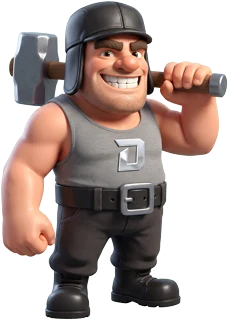
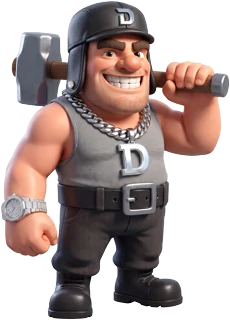
Gate: 20 s repair scene with dripped-out builders (chain, watch, D cap); clock segments actually get fixed; cleaner note

diff --git a/index.html b/index.html
@@ -51,7 +51,7 @@
                 <linearGradient id="g-buckle" x1="0" y1="0" x2="1" y2="1"><stop offset="0" stop-color="#ffffff"/><stop offset="1" stop-color="#9da1a8"/></linearGradient>
                 <linearGradient id="g-mallet" x1="0" y1="0" x2="1" y2="1"><stop offset="0" stop-color="#d7d9de"/><stop offset="1" stop-color="#7d8086"/></linearGradient>
               </defs>
-              <g class="repair__clock"><rect class="seg" x="43" y="8" width="14" height="3"/><rect class="seg" x="57" y="11" width="3" height="15"/><rect class="seg" x="57" y="30" width="3" height="15"/><rect class="seg" x="43" y="45" width="14" height="3"/><rect class="seg" x="40" y="30" width="3" height="15"/><rect class="seg" x="40" y="11" width="3" height="15"/><rect class="seg on" x="43" y="26.5" width="14" height="3"/><rect class="seg" x="67" y="8" width="14" height="3"/><rect class="seg" x="81" y="30" width="3" height="15"/><rect class="seg" x="67" y="45" width="14" height="3"/><rect class="seg" x="64" y="30" width="3" height="15"/><rect class="seg" x="64" y="11" width="3" height="15"/><rect class="seg on" x="67" y="26.5" width="14" height="3"/><rect class="seg" x="101" y="8" width="14" height="3"/><rect class="seg" x="115" y="11" width="3" height="15"/><rect class="seg" x="101" y="45" width="14" height="3"/><rect class="seg" x="98" y="30" width="3" height="15"/><rect class="seg" x="98" y="11" width="3" height="15"/><rect class="seg" x="125" y="8" width="14" height="3"/><rect class="seg" x="139" y="11" width="3" height="15"/><rect class="seg" x="139" y="30" width="3" height="15"/><rect class="seg" x="125" y="45" width="14" height="3"/><rect class="seg" x="122" y="30" width="3" height="15"/><rect class="seg" x="122" y="11" width="3" height="15"/><rect class="seg on" x="125" y="26.5" width="14" height="3"/><rect class="seg" x="159" y="8" width="14" height="3"/><rect class="seg" x="173" y="11" width="3" height="15"/><rect class="seg" x="173" y="30" width="3" height="15"/><rect class="seg" x="159" y="45" width="14" height="3"/><rect class="seg" x="197" y="11" width="3" height="15"/><rect class="seg" x="197" y="30" width="3" height="15"/><rect class="seg" x="183" y="45" width="14" height="3"/><rect class="seg" x="180" y="30" width="3" height="15"/><rect class="seg" x="180" y="11" width="3" height="15"/><rect class="seg on" x="183" y="26.5" width="14" height="3"/><rect class="seg" x="217" y="8" width="14" height="3"/><rect class="seg" x="231" y="11" width="3" height="15"/><rect class="seg" x="231" y="30" width="3" height="15"/><rect class="seg" x="217" y="45" width="14" height="3"/><rect class="seg" x="214" y="30" width="3" height="15"/><rect class="seg" x="214" y="11" width="3" height="15"/><rect class="seg" x="241" y="8" width="14" height="3"/><rect class="seg" x="255" y="11" width="3" height="15"/><rect class="seg" x="238" y="30" width="3" height="15"/><rect class="seg" x="238" y="11" width="3" height="15"/><rect class="seg on" x="241" y="26.5" width="14" height="3"/><rect class="seg on" x="89" y="20" width="3" height="3"/><rect class="seg on" x="89" y="33" width="3" height="3"/><rect class="seg on" x="147" y="20" width="3" height="3"/><rect class="seg on" x="147" y="33" width="3" height="3"/></g>
+              <g class="repair__clock"><rect class="seg fix fix1" x="101" y="26.5" width="14" height="3"/><rect class="seg fix fix2" x="217" y="26.5" width="14" height="3"/><rect class="seg" x="43" y="8" width="14" height="3"/><rect class="seg" x="57" y="11" width="3" height="15"/><rect class="seg" x="57" y="30" width="3" height="15"/><rect class="seg" x="43" y="45" width="14" height="3"/><rect class="seg" x="40" y="30" width="3" height="15"/><rect class="seg" x="40" y="11" width="3" height="15"/><rect class="seg on" x="43" y="26.5" width="14" height="3"/><rect class="seg" x="67" y="8" width="14" height="3"/><rect class="seg" x="81" y="30" width="3" height="15"/><rect class="seg" x="67" y="45" width="14" height="3"/><rect class="seg" x="64" y="30" width="3" height="15"/><rect class="seg" x="64" y="11" width="3" height="15"/><rect class="seg on" x="67" y="26.5" width="14" height="3"/><rect class="seg" x="101" y="8" width="14" height="3"/><rect class="seg" x="115" y="11" width="3" height="15"/><rect class="seg" x="101" y="45" width="14" height="3"/><rect class="seg" x="98" y="30" width="3" height="15"/><rect class="seg" x="98" y="11" width="3" height="15"/><rect class="seg" x="125" y="8" width="14" height="3"/><rect class="seg" x="139" y="11" width="3" height="15"/><rect class="seg" x="139" y="30" width="3" height="15"/><rect class="seg" x="125" y="45" width="14" height="3"/><rect class="seg" x="122" y="30" width="3" height="15"/><rect class="seg" x="122" y="11" width="3" height="15"/><rect class="seg on" x="125" y="26.5" width="14" height="3"/><rect class="seg" x="159" y="8" width="14" height="3"/><rect class="seg" x="173" y="11" width="3" height="15"/><rect class="seg" x="173" y="30" width="3" height="15"/><rect class="seg" x="159" y="45" width="14" height="3"/><rect class="seg" x="197" y="11" width="3" height="15"/><rect class="seg" x="197" y="30" width="3" height="15"/><rect class="seg" x="183" y="45" width="14" height="3"/><rect class="seg" x="180" y="30" width="3" height="15"/><rect class="seg" x="180" y="11" width="3" height="15"/><rect class="seg on" x="183" y="26.5" width="14" height="3"/><rect class="seg" x="217" y="8" width="14" height="3"/><rect class="seg" x="231" y="11" width="3" height="15"/><rect class="seg" x="231" y="30" width="3" height="15"/><rect class="seg" x="217" y="45" width="14" height="3"/><rect class="seg" x="214" y="30" width="3" height="15"/><rect class="seg" x="214" y="11" width="3" height="15"/><rect class="seg" x="241" y="8" width="14" height="3"/><rect class="seg" x="255" y="11" width="3" height="15"/><rect class="seg" x="238" y="30" width="3" height="15"/><rect class="seg" x="238" y="11" width="3" height="15"/><rect class="seg on" x="241" y="26.5" width="14" height="3"/><rect class="seg on" x="89" y="20" width="3" height="3"/><rect class="seg on" x="89" y="33" width="3" height="3"/><rect class="seg on" x="147" y="20" width="3" height="3"/><rect class="seg on" x="147" y="33" width="3" height="3"/></g>
               <g class="repair__pile"><rect class="seg on" x="150" y="104" width="14" height="3" transform="rotate(-12 150 104)"/><rect class="seg loose" x="165" y="107" width="3" height="15" transform="rotate(70 165 107)"/><rect class="seg loose" x="176" y="102" width="14" height="3" transform="rotate(25 176 102)"/><rect class="seg on" x="190" y="106" width="14" height="3" transform="rotate(-5 190 106)"/><rect class="seg loose" x="200" y="99" width="3" height="15" transform="rotate(-60 200 99)"/><rect class="seg loose" x="212" y="105" width="14" height="3" transform="rotate(40 212 105)"/><rect class="seg on" x="224" y="108" width="3" height="15" transform="rotate(95 224 108)"/><rect class="seg loose" x="158" y="98" width="14" height="3" transform="rotate(8 158 98)"/><rect class="seg loose" x="183" y="96" width="3" height="3" transform="rotate(0 183 96)"/><rect class="seg on" x="236" y="104" width="14" height="3" transform="rotate(-30 236 104)"/><rect class="seg loose" x="205" y="110" width="3" height="3" transform="rotate(0 205 110)"/><rect class="seg on repair__hop" x="186" y="98" width="14" height="3"/></g>
               
               </g></g>
@@ -60,14 +60,18 @@
               <g class="zzz"><text x="246" y="34">z</text><text x="256" y="24">z</text><text x="268" y="12">Z</text></g>
               <g class="say say--a" transform="translate(30 14)"><rect width="70" height="20" rx="6"/><path d="M56 18 L70 30 L64 18 Z"/><text x="35" y="14">#@$%!</text></g>
               <g class="say say--b" transform="translate(272 26)"><rect width="34" height="20" rx="6"/><path d="M6 18 L0 30 L14 18 Z"/><text x="17" y="14.5">?!</text></g>
+              <g class="say say--c" transform="translate(30 14)"><rect width="70" height="20" rx="6"/><path d="M56 18 L70 30 L64 18 Z"/><text x="35" y="14">NOT AGAIN</text></g>
+              <g class="sparks" transform="translate(222 30)"><path d="M0 0 l-10 -6 M0 0 l-12 2 M0 0 l-6 -11 M0 0 l3 -12 M0 0 l9 -8"/></g>
               <path class="repair__ground" d="M-30 113 H350"/>
             </svg>
-              <img class="bld bld-a bld-hammer" src="assets/img/builder-1-hammer.webp" alt="" width="228" height="320">
-              <img class="bld bld-a bld-throw" src="assets/img/builder-2-throw.webp" alt="" width="309" height="320">
+              <img class="bld bld-a bld-hammer" src="assets/img/builder-1-hammer.webp" alt="" width="230" height="320">
+              <img class="bld bld-a bld-throw" src="assets/img/builder-2-throw.webp" alt="" width="310" height="320">
+              <img class="bld bld-a bld-lift" src="assets/img/builder-5-lift.webp" alt="" width="324" height="320">
               <img class="bld bld-b bld-sleep" src="assets/img/builder-3-sleep.webp" alt="" width="204" height="320">
-              <img class="bld bld-b bld-work" src="assets/img/builder-4-work.webp" alt="" width="233" height="320">
+              <img class="bld bld-b bld-work" src="assets/img/builder-4-work.webp" alt="" width="232" height="320">
+              <img class="bld bld-b bld-weld" src="assets/img/builder-6-weld.webp" alt="" width="284" height="320">
             </div>
-            <p class="repair__note"><strong>Countdown under repair.</strong> The crew is dialing in the drop date. Join the waitlist and you hear it first.</p>
+            <p class="repair__note"><span>Countdown under repair</span>Join the waitlist to hear the date first.</p>
           </div>
           <!-- Real sign-up: posts to the live Shopify store's own newsletter form (deluxe-hq.com), tagged waitlist, into a hidden frame so the visitor stays here -->
           <iframe name="waitlist-sink" title="Waitlist" hidden></iframe>

diff --git a/assets/css/site.css b/assets/css/site.css
@@ -612,3 +612,44 @@ body[data-page="gate"] [data-topbar] { display: none !important; }
   50%,58%,66%,74%,82% { opacity: 1; transform: translateX(-50%) rotate(-3deg); } 54%,62%,70%,78% { opacity: 1; transform: translateX(-50%) rotate(3deg); }
   87.9% { opacity: 1; } 88%,100% { opacity: 0; } }
 @media (prefers-reduced-motion: reduce) { .bld { animation: none !important; } .bld-throw, .bld-work { opacity: 0; } }
+
+/* 20 s repair scene (overrides the 8 s loop above). Seconds: 0-4 nap + hammering, 4-5 swear + throw, 5-6 bonk,
+   6-10 wrench + lift (segment 1 fixed at 9 s), 10-14 weld (segment 2 fixed at 13 s), 14-17 admire, 17-20 piece falls, swear, nap */
+.repair :is(.flyer, .zzz, .say, .sparks), .repair .fix, .bld { animation-duration: 20s !important; animation-timing-function: linear; animation-iteration-count: infinite; }
+.repair .fix { fill: rgba(255,255,255,.14); animation-name: fixes; transform-box: fill-box; transform-origin: center; }
+.repair .fix2 { animation-name: fixes2; }
+@keyframes fixes { 0%,44.9% { fill: rgba(255,255,255,.14); filter: none; transform: none; } 45% { fill: #fff; filter: drop-shadow(0 0 10px #fff); }
+  48%,84.9% { fill: #fff; filter: drop-shadow(0 0 5px rgba(255,255,255,.4)); transform: none; } 85% { transform: translateY(0) rotate(0); }
+  90%,100% { fill: rgba(255,255,255,.5); filter: none; transform: translateY(78px) rotate(-25deg); } }
+@keyframes fixes2 { 0%,64.9% { fill: rgba(255,255,255,.14); filter: none; } 65% { fill: #fff; filter: drop-shadow(0 0 10px #fff); } 68%,100% { fill: #fff; filter: drop-shadow(0 0 5px rgba(255,255,255,.4)); } }
+.sparks path { stroke: #fff; stroke-width: 1.8; stroke-linecap: round; }
+.sparks { opacity: 0; animation-name: sparks20; }
+@keyframes sparks20 { 0%,51.9% { opacity: 0; } 52%,53%,55%,57%,59%,61%,63% { opacity: 1; } 54%,56%,58%,60%,62% { opacity: .2; } 64%,100% { opacity: 0; } }
+.zzz { animation-name: zzz20 !important; }
+@keyframes zzz20 { 0% { opacity: 1; transform: translateY(0); } 18% { opacity: 1; transform: translateY(-6px); } 22%,90% { opacity: 0; transform: translateY(0); } 94%,100% { opacity: 1; } }
+.say--a { animation-name: say20a !important; } .say--b { animation-name: say20b !important; } .say--c { animation-name: say20c; opacity: 0; }
+@keyframes say20a { 0%,18.9% { opacity: 0; } 19%,25% { opacity: 1; } 26%,100% { opacity: 0; } }
+@keyframes say20b { 0%,25.9% { opacity: 0; } 26%,31% { opacity: 1; } 32%,100% { opacity: 0; } }
+@keyframes say20c { 0%,85.9% { opacity: 0; } 86%,92% { opacity: 1; } 93%,100% { opacity: 0; } }
+.flyer { animation-name: fly20 !important; }
+@keyframes fly20 { 0%,22.9% { opacity: 0; transform: translate(150px,50px) rotate(0); } 23% { opacity: 1; transform: translate(150px,50px) rotate(0); }
+  26% { opacity: 1; transform: translate(262px,44px) rotate(540deg); } 28% { opacity: 1; transform: translate(250px,100px) rotate(620deg); }
+  49% { opacity: 1; transform: translate(250px,100px) rotate(620deg); } 50%,100% { opacity: 0; transform: translate(250px,100px) rotate(620deg); } }
+.bld-lift, .bld-weld { opacity: 0; }
+.bld-weld { left: 66%; }
+.bld-hammer { animation-name: h20 !important; } .bld-throw { animation-name: t20 !important; } .bld-lift { animation-name: l20; }
+.bld-sleep { animation-name: s20 !important; } .bld-work { animation-name: w20 !important; } .bld-weld { animation-name: we20; }
+@keyframes h20 { 0%,3%,6%,9%,12%,15%,18% { opacity: 1; transform: translateX(-50%); } 1.5%,4.5%,7.5%,10.5%,13.5%,16.5% { opacity: 1; transform: translateX(-50%) translateY(3%) rotate(4deg); }
+  19.9% { opacity: 1; } 20%,49.9% { opacity: 0; } 50% { opacity: 1; transform: translateX(-50%); } 53%,59%,65% { transform: translateX(-50%) translateY(3%) rotate(4deg); } 56%,62%,68% { transform: translateX(-50%); }
+  70%,85.9% { opacity: 1; transform: translateX(-50%); } 86%,92.9% { opacity: 0; } 93%,100% { opacity: 1; transform: translateX(-50%); } }
+@keyframes t20 { 0%,19.9% { opacity: 0; transform: translateX(-50%); } 20% { opacity: 1; transform: translateX(-56%) rotate(-4deg); } 23% { opacity: 1; transform: translateX(-46%) rotate(5deg); }
+  29.9% { opacity: 1; transform: translateX(-50%); } 30%,85.9% { opacity: 0; } 86% { opacity: 1; transform: translateX(-50%) rotate(-3deg); } 92% { opacity: 1; transform: translateX(-50%) rotate(3deg); } 92.9% { opacity: 1; } 93%,100% { opacity: 0; } }
+@keyframes l20 { 0%,29.9% { opacity: 0; transform: translateX(-50%) translateY(0); } 30% { opacity: 1; } 36%,42% { opacity: 1; transform: translateX(-50%) translateY(-4%); } 39%,44% { opacity: 1; transform: translateX(-50%) translateY(0); } 49.9% { opacity: 1; } 50%,100% { opacity: 0; } }
+@keyframes s20 { 0%,25.9% { opacity: 1; transform: translateX(-50%) scaleY(1); } 12% { transform: translateX(-50%) scaleY(.985); } 26%,89.9% { opacity: 0; } 90%,100% { opacity: 1; transform: translateX(-50%); } }
+@keyframes w20 { 0%,25.9% { opacity: 0; transform: translateX(-50%); } 26% { opacity: 1; transform: translateX(-50%) translateY(-6%); }
+  29%,33%,37%,41%,45% { opacity: 1; transform: translateX(-50%) rotate(-3deg); } 31%,35%,39%,43%,47% { opacity: 1; transform: translateX(-50%) rotate(3deg); }
+  49.9% { opacity: 1; } 50%,69.9% { opacity: 0; } 70% { opacity: 1; transform: translateX(-50%); } 89.9% { opacity: 1; } 90%,100% { opacity: 0; } }
+@keyframes we20 { 0%,49.9% { opacity: 0; transform: translateX(-50%); } 50%,69.9% { opacity: 1; transform: translateX(-50%); } 70%,100% { opacity: 0; } }
+.waitlist .repair__note { margin-top: 12px !important; font-size: .8125rem; line-height: 1.5; color: var(--fog); max-width: none; }
+.repair__note span { display: block; margin-bottom: 2px; font-size: .75rem; font-weight: 700; letter-spacing: .24em; text-transform: uppercase; color: var(--white); }
+@media (prefers-reduced-motion: reduce) { .bld-lift, .bld-weld, .say--c, .sparks { opacity: 0 !important; } .repair .fix { animation: none !important; } }
